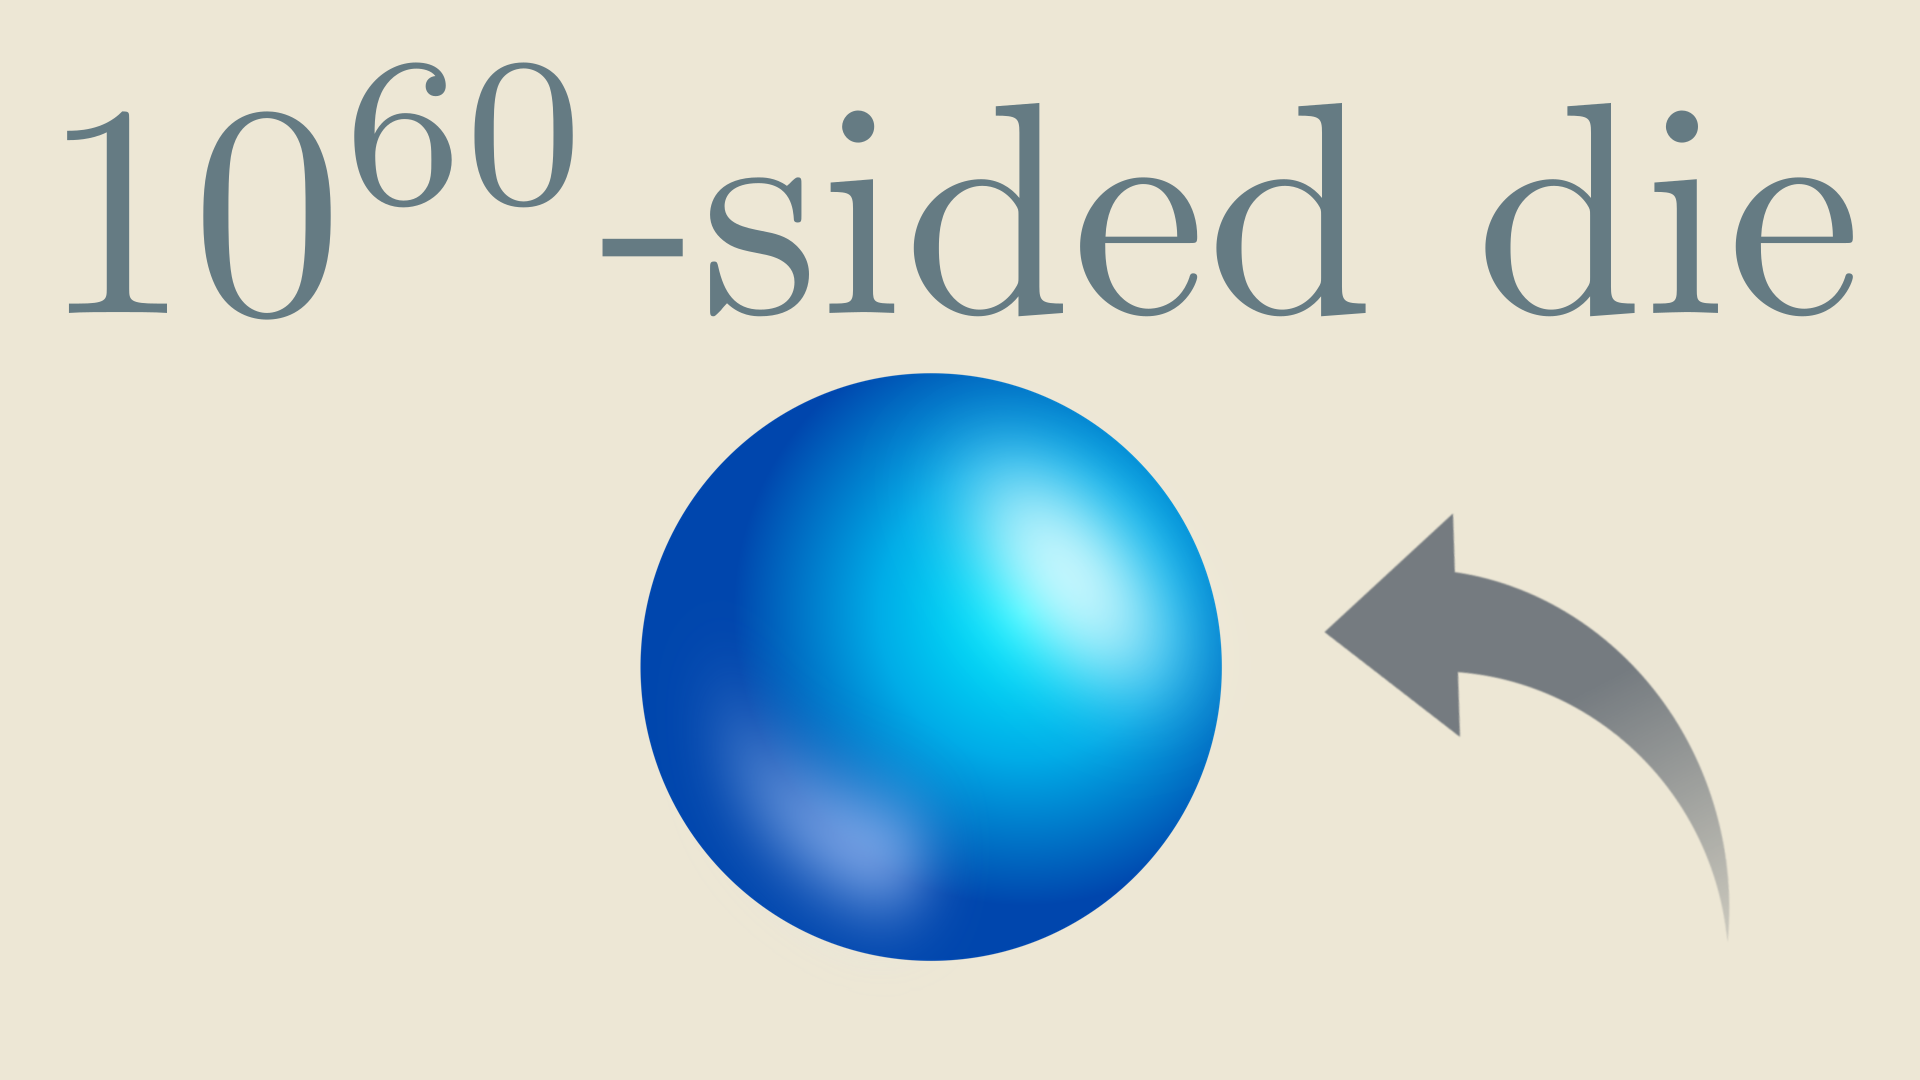
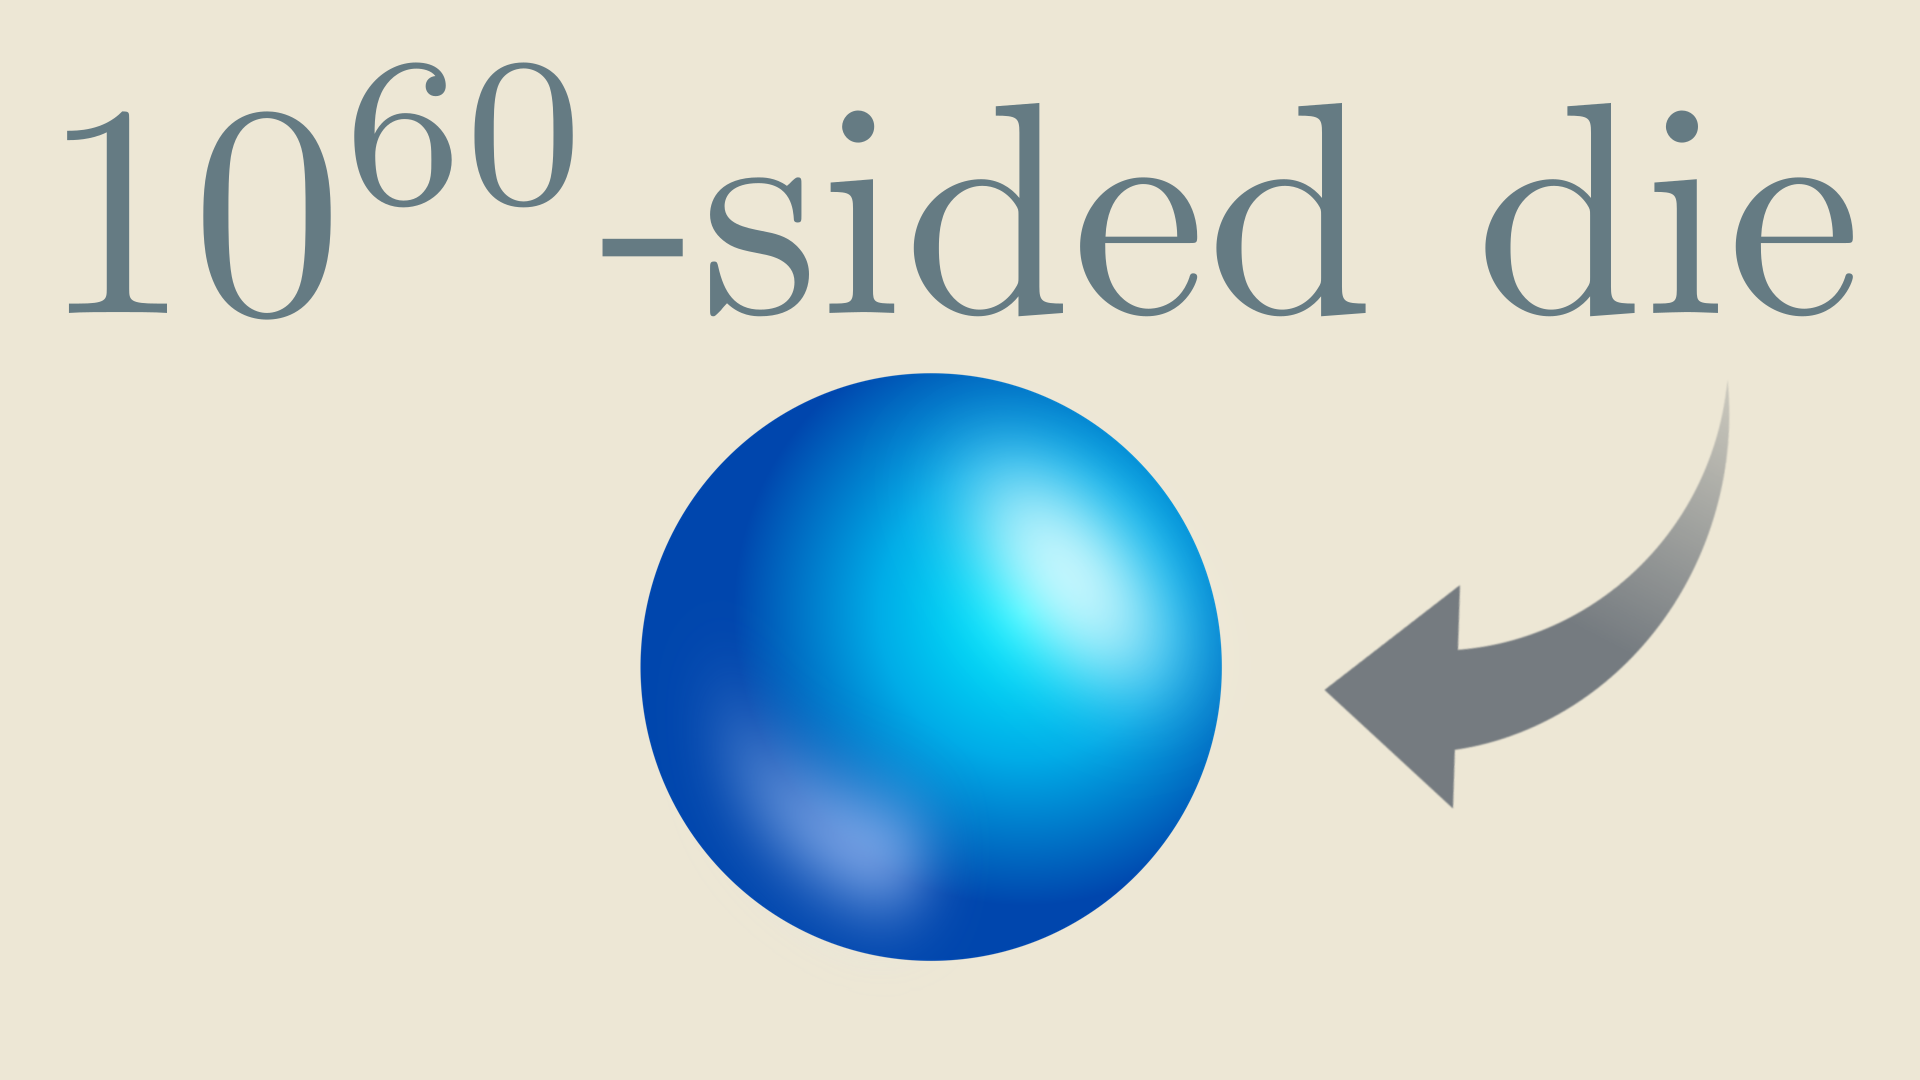
Flip the arrow in thumbnail

Changed region(s): [[0.6875, 0.3667, 0.9062, 0.8556]]

diff --git a/intro-anims.py b/intro-anims.py
@@ -14,7 +14,7 @@ class Thumbnail(ThreeDScene):
         txt = Group(*txt).arrange(DOWN).shift(0 * RIGHT + 3.5 * UP)
         txt[0].align_to(txt[1], RIGHT)
 
-        arrow = ImageMobject("sipka.png").move_to(4.5 * RIGHT + 1.5 * DOWN)
+        arrow = ImageMobject("sipka.png").move_to(4.5 * RIGHT + 0.3 * DOWN)
 
         # arrow = Arrow(
         #     start = 1*RIGHT + 1 * DOWN,
